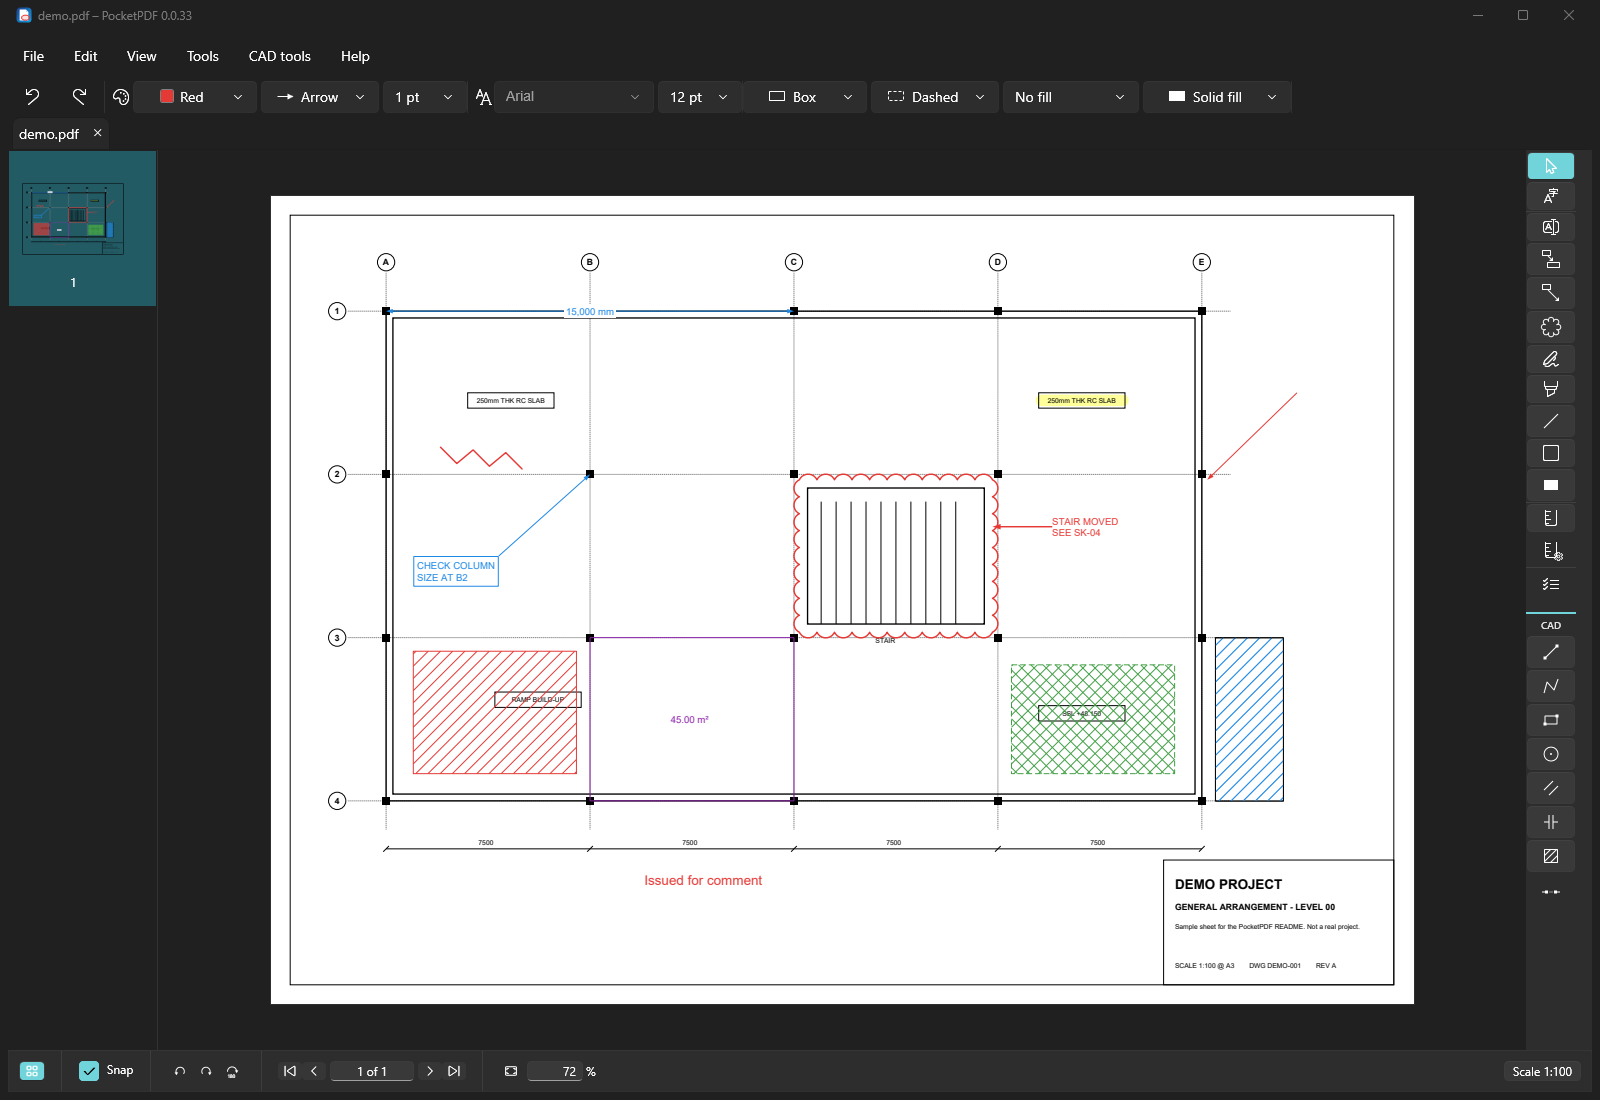
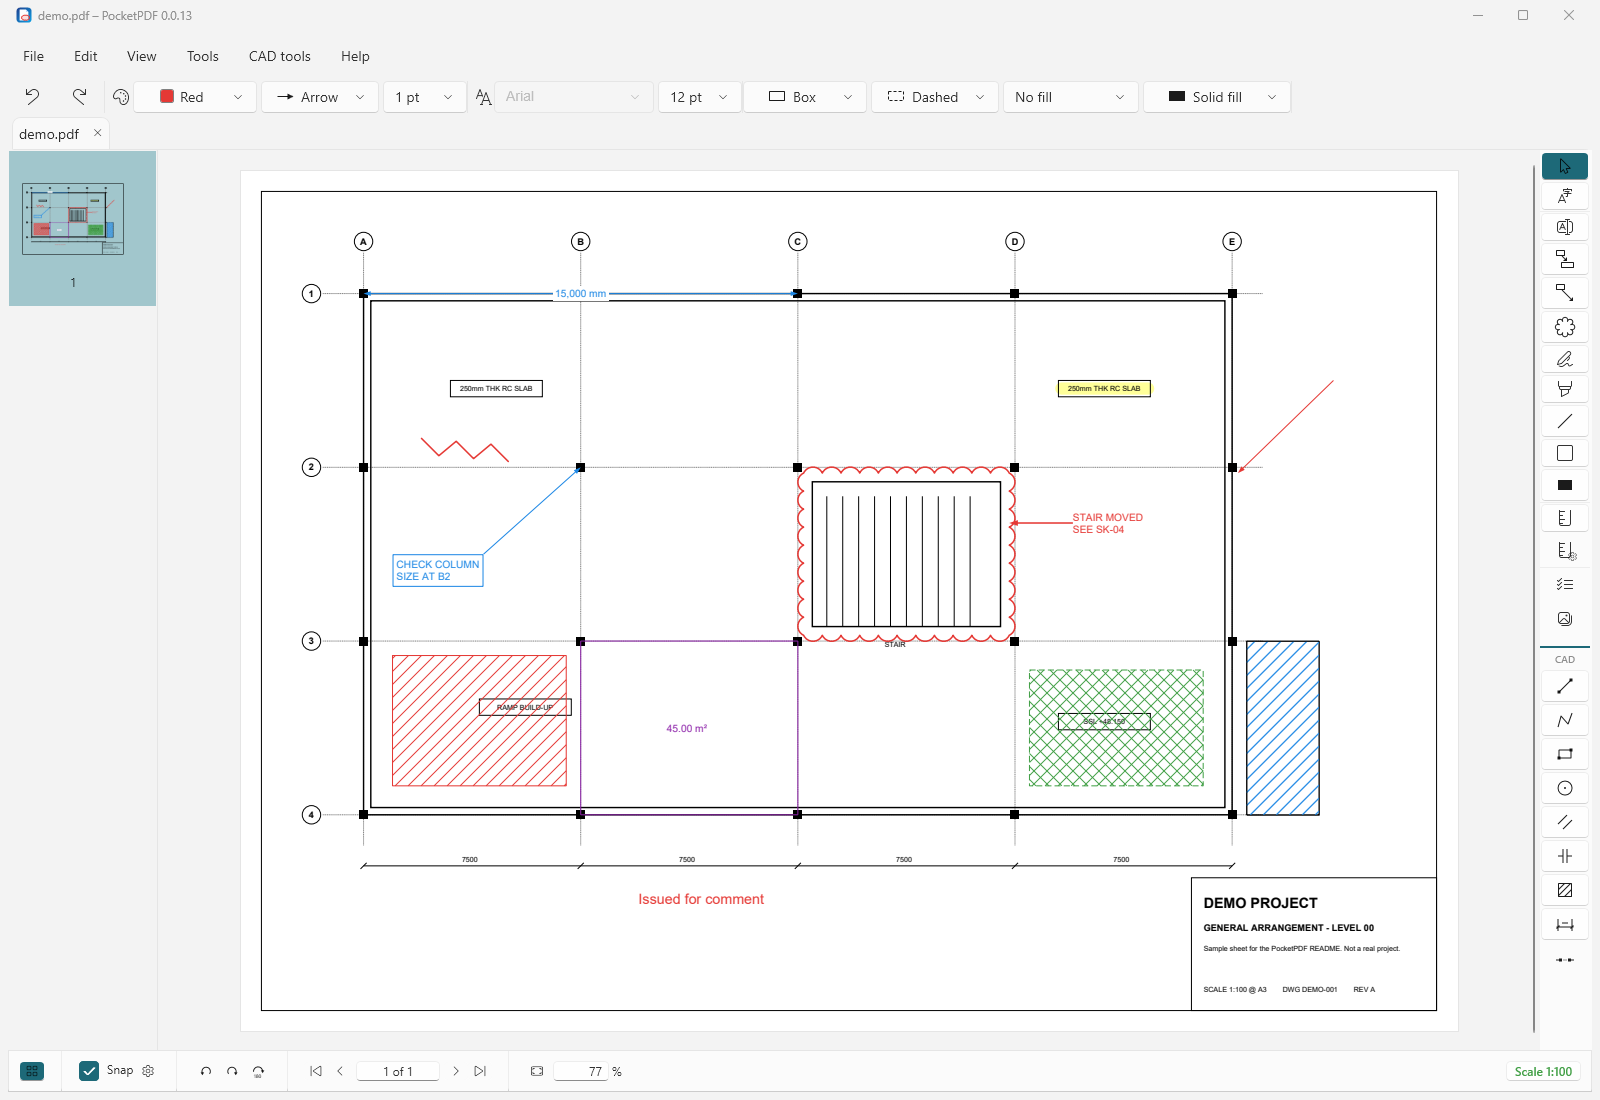
New README screenshots in light and dark mode, and the current tool bar

diff --git a/README.md b/README.md
@@ -4,10 +4,14 @@ A small Windows PDF viewer and markup tool for engineering drawings. Open a draw
 scale, draw on it with simple CAD tools, overlay an old revision to see what changed, and save the markups back
 into the PDF as standard annotations that other viewers show too.
 
-![PocketPDF with a drawing open: clouds, callouts, hatched fills, measurements and CAD hatching on a sample sheet](img/screenshot.png)
+![PocketPDF in light mode with a drawing open: clouds, callouts, hatched fills, measurements and CAD hatching on a sample sheet](img/screenshot.png)
 
 *A made-up sample sheet with one of each kind of markup. The style of new markups is set along the top, the tools
-are down the right, and pages, snap, zoom and the drawing scale are in the status bar.*
+are down the right, and pages, snap and its settings, zoom and the drawing scale (green once set) are in the status bar.*
+
+![The same sheet in dark mode](img/screenshot-dark.png)
+
+*The same in dark mode (View ▸ Dark mode). The drawing itself stays on white paper.*
 
 ## Features
 
